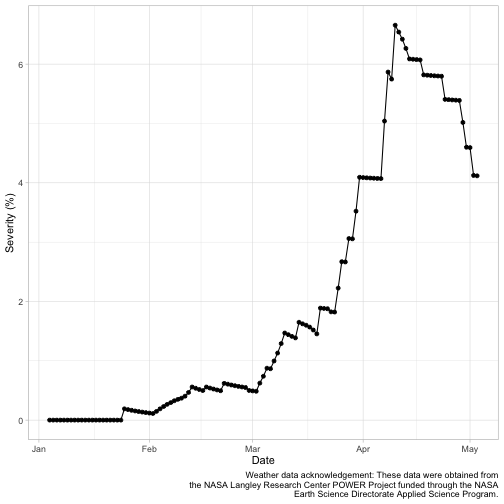
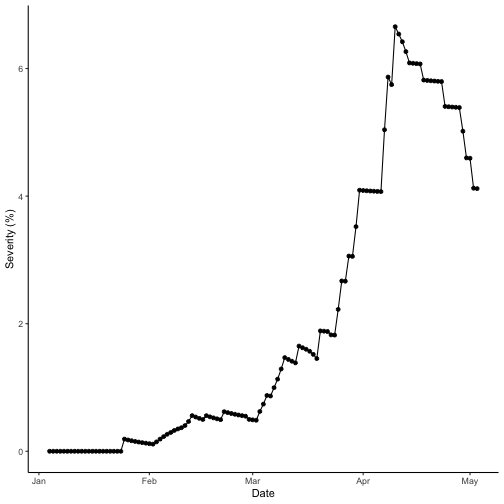
Update README with corrected SEIR() and use theme_classic() for figs

diff --git a/README.md b/README.md
@@ -1,3 +1,6 @@
+
+<!-- README.md is generated from README.Rmd. Please edit that file -->
+
 # *epicrop*: Simulation Modelling of Crop Diseases Using a Susceptible-Exposed-Infectious-Removed (SEIR) Model
 
 <img align="right" src="man/figures/logo.png">
@@ -6,18 +9,32 @@
 
 [![tic](https://github.com/adamhsparks/epicrop/workflows/tic/badge.svg?branch=main)](https://github.com/adamhsparks/epicrop/actions)
 [![codecov](https://codecov.io/gh/adamhsparks/epicrop/branch/main/graph/badge.svg?token=NWrKsX9MaP)](https://codecov.io/gh/adamhsparks/epicrop)
-[![Project Status: Active – The project has reached a stable, usable state and is being actively developed.](https://www.repostatus.org/badges/latest/active.svg)](https://www.repostatus.org/#active)
+[![Project Status: Active – The project has reached a stable, usable
+state and is being actively
+developed.](https://www.repostatus.org/badges/latest/active.svg)](https://www.repostatus.org/#active)
 <!-- badges: end -->
 
-A fork of [_cropsim_](https://r-forge.r-project.org/R/?group_id=335) designed to make using the EPIRICE model (Savary _et al._ 2012) for rice diseases easier to use.
-This version provides easy to use functions to fetch weather data from NASA POWER, via the [*nasapower*](https://cran.r-project.org/package=nasapower) package (Sparks 2018, Sparks 2020) and predict disease severity of five rice diseases using a generic SEIR model (Zadoks 1971) function, `SEIR()`.
+A fork of [*cropsim*](https://r-forge.r-project.org/R/?group_id=335)
+designed to make using the EPIRICE model (Savary *et al.* 2012) for rice
+diseases easier to use. This version provides easy to use functions to
+fetch weather data from NASA POWER, via the
+[*nasapower*](https://cran.r-project.org/package=nasapower) package
+(Sparks 2018, Sparks 2020) and predict disease severity of five rice
+diseases using a generic SEIR model (Zadoks 1971) function, `SEIR()`.
 
-The original EPIRICE manuscript, Savary _et al._ (2012), which details the model and results of its use to model global epidemics of rice diseases, was published in *Crop Protection* detailing global unmanaged disease risk of bacterial blight, brown spot, leaf blast, sheath blight and tungro, which are included in this package.
+The original EPIRICE manuscript, Savary *et al.* (2012), which details
+the model and results of its use to model global epidemics of rice
+diseases, was published in *Crop Protection* detailing global unmanaged
+disease risk of bacterial blight, brown spot, leaf blast, sheath blight
+and tungro, which are included in this package.
 
 # Quick start
 
-You can easily simulate any of the five diseases for rice grown anywhere in the world for years from 1983 to near current using `get_wth()` to fetch data from the [NASA POWER web API](https://power.larc.nasa.gov).
-Alternatively, you can supply your own weather data for any time period as long as it fits the model’s requirements.
+You can easily simulate any of the five diseases for rice grown anywhere
+in the world for years from 1983 to near current using `get_wth()` to
+fetch data from the [NASA POWER web API](https://power.larc.nasa.gov).
+Alternatively, you can supply your own weather data for any time period
+as long as it fits the model’s requirements.
 
 *epicrop* is not yet on CRAN. You can install it this way.
 
@@ -30,8 +47,11 @@ remotes::install_github("adamhsparks/epicrop"
 
 ## Get weather data
 
-First you need to provide weather data for the model. *epicrop* provides the `get_wth()` function to do this. Using it you can fetch weather data for any place in the world from 1983 to near present by providing the
-longitude and latitude and dates or length of rice growing season as shown below.
+First you need to provide weather data for the model. *epicrop* provides
+the `get_wth()` function to do this. Using it you can fetch weather data
+for any place in the world from 1983 to near present by providing the
+longitude and latitude and dates or length of rice growing season as
+shown below.
 
 ``` r
 library("epicrop")
@@ -45,20 +65,19 @@ library("epicrop")
  )
 
 wth
+#>        YYYYMMDD DOY  TEMP  RHUM  RAIN   LAT   LON
+#>   1: 2000-07-01 183 25.34 91.07 24.87 14.68 121.3
+#>   2: 2000-07-02 184 25.99 85.71 17.63 14.68 121.3
+#>   3: 2000-07-03 185 25.35 94.01 33.52 14.68 121.3
+#>   4: 2000-07-04 186 25.58 93.28 16.21 14.68 121.3
+#>   5: 2000-07-05 187 25.79 92.62 36.28 14.68 121.3
+#>  ---                                             
+#> 117: 2000-10-25 299 25.56 89.57 11.04 14.68 121.3
+#> 118: 2000-10-26 300 25.31 94.35 10.51 14.68 121.3
+#> 119: 2000-10-27 301 25.58 90.85  9.13 14.68 121.3
+#> 120: 2000-10-28 302 25.25 92.52 77.16 14.68 121.3
+#> 121: 2000-10-29 303 24.78 94.41 29.22 14.68 121.3
 ```
-
-    ##        YYYYMMDD DOY  TEMP  RHUM  RAIN   LAT   LON
-    ##   1: 2000-07-01 183 25.34 91.07 24.87 14.68 121.3
-    ##   2: 2000-07-02 184 25.99 85.71 17.63 14.68 121.3
-    ##   3: 2000-07-03 185 25.35 94.01 33.52 14.68 121.3
-    ##   4: 2000-07-04 186 25.58 93.28 16.21 14.68 121.3
-    ##   5: 2000-07-05 187 25.79 92.62 36.28 14.68 121.3
-    ##  ---                                             
-    ## 117: 2000-10-25 299 25.56 89.57 11.04 14.68 121.3
-    ## 118: 2000-10-26 300 25.31 94.35 10.51 14.68 121.3
-    ## 119: 2000-10-27 301 25.58 90.85  9.13 14.68 121.3
-    ## 120: 2000-10-28 302 25.25 92.52 77.16 14.68 121.3
-    ## 121: 2000-10-29 303 24.78 94.41 29.22 14.68 121.3
 
 ## Modelling bacterial blight disease severity
 
@@ -70,32 +89,31 @@ transplanted rice.
 bb <- predict_bacterial_blight(wth, emergence = "2000-07-01")
 
 bb
+#>      simday      dates  sites latent infectious removed senesced rateinf
+#>   1:      0 2000-06-30  100.0   0.00        0.0     0.0    0.000   0.000
+#>   2:      1 2000-07-01  108.7   0.00        0.0     0.0    1.000   0.000
+#>   3:      2 2000-07-02  118.1   0.00        0.0     0.0    2.087   0.000
+#>   4:      3 2000-07-03  128.3   0.00        0.0     0.0    3.268   0.000
+#>   5:      4 2000-07-04  139.3   0.00        0.0     0.0    4.551   0.000
+#>  ---                                                                    
+#> 117:    116 2000-10-24 1308.2  44.37      916.6   362.0 2210.703  17.981
+#> 118:    117 2000-10-25 1256.5  39.99      895.1   405.9 2267.662  15.735
+#> 119:    118 2000-10-26 1211.4  33.72      876.6   446.4 2320.710  13.933
+#> 120:    119 2000-10-27 1165.7  47.65      833.0   490.0 2376.432  11.931
+#> 121:    120 2000-10-28 1120.0  59.58      786.7   536.2 2434.321   9.753
+#>      rtransfer rgrowth rsenesced diseased severity   lat   lon
+#>   1:      0.00   9.688     1.000        0     0.00 14.68 121.3
+#>   2:      0.00  10.500     1.087        0     0.00 14.68 121.3
+#>   3:      0.00  11.374     1.181        0     0.00 14.68 121.3
+#>   4:      0.00  12.315     1.283        0     0.00 14.68 121.3
+#>   5:      0.00  13.326     1.393        0     0.00 14.68 121.3
+#>  ---                                                          
+#> 117:     22.36  23.254    56.959     1323    42.35 14.68 121.3
+#> 118:     22.00  23.659    53.049     1341    42.67 14.68 121.3
+#> 119:      0.00  23.922    55.722     1357    42.90 14.68 121.3
+#> 120:      0.00  24.177    57.889     1371    43.04 14.68 121.3
+#> 121:      0.00  24.410    57.906     1383    43.04 14.68 121.3
 ```
-
-    ##      simday      dates  sites latent infectious removed senesced rateinf
-    ##   1:      0 2000-06-30  100.0   0.00        0.0     0.0    0.000    0.00
-    ##   2:      1 2000-07-01  108.7   0.00        0.0     0.0    1.000    0.00
-    ##   3:      2 2000-07-02  118.1   0.00        0.0     0.0    2.087    0.00
-    ##   4:      3 2000-07-03  128.3   0.00        0.0     0.0    3.268    0.00
-    ##   5:      4 2000-07-04  139.3   0.00        0.0     0.0    4.551    0.00
-    ##  ---                                                                    
-    ## 117:    116 2000-10-24 1448.6  27.12      897.7   307.6 2185.382   24.56
-    ## 118:    117 2000-10-25 1390.2  24.56      882.0   350.4 2242.712   21.54
-    ## 119:    118 2000-10-26 1339.1  46.10      842.4   390.0 2296.228   18.52
-    ## 120:    119 2000-10-27 1294.8  64.62      805.6   426.8 2346.414   16.11
-    ## 121:    120 2000-10-28 1248.7  80.73      763.9   468.5 2401.046   13.32
-    ##      rtransfer rgrowth rsenesced diseased severity   lat   lon
-    ##   1:      0.00   9.688     1.000        0     0.00 14.68 121.3
-    ##   2:      0.00  10.500     1.087        0     0.00 14.68 121.3
-    ##   3:      0.00  11.374     1.181        0     0.00 14.68 121.3
-    ##   4:      0.00  12.315     1.283        0     0.00 14.68 121.3
-    ##   5:      0.00  13.326     1.393        0     0.00 14.68 121.3
-    ##  ---                                                          
-    ## 117:     27.12  23.495    57.330     1232    38.97 14.68 121.3
-    ## 118:      0.00  24.018    53.516     1257    39.47 14.68 121.3
-    ## 119:      0.00  24.371    50.186     1279    39.88 14.68 121.3
-    ## 120:      0.00  24.609    54.632     1297    40.19 14.68 121.3
-    ## 121:      0.00  24.903    56.775     1313    40.35 14.68 121.3
 
 Once you have the results you can visualise them.
 
@@ -109,30 +127,50 @@ ggplot(data = bb,
        x = "Date") +
   geom_line() +
   geom_point() +
-  labs(title = "Bacterial blight disease progress over time",
-       subtitle = "Results for wet season year 2000 at IRRI Zeigler Experiment
-       Station shown",
-       caption = "Weather data acknowledgement:\nThese data were obtained from
-       the NASA Langley Research Center POWER Project\nfunded through the NASA
-       Earth Science Directorate Applied Science Program.") +
-  theme_light()
+  labs(caption = "Weather data acknowledgement:\nThese data were obtained from the NASA Langley Research Center POWER Project\nfunded through the NASA Earth Science Directorate Applied Science Program.") +
+  theme_classic()
 ```
 
-![](man/figures/fig1-1.png)<!-- -->
+<div class="figure">
+
+<img src="man/figures/README-plot-1.png" alt="Bacterial blight disease progress over time. Results for wet season year 2000 at IRRI Zeigler Experiment Station shown" width="100%" />
+<p class="caption">
+Bacterial blight disease progress over time. Results for wet season year
+2000 at IRRI Zeigler Experiment Station shown
+</p>
+
+</div>
 
 # Meta
 
-Please note that this project is released with a [Contributor Code of Conduct](CONDUCT.md).
-By participating in this project you agree to abide by its terms.
+Please note that this project is released with a [Contributor Code of
+Conduct](CONDUCT.md). By participating in this project you agree to
+abide by its terms.
 
 # References
 
-Serge Savary, Andrew Nelson, Laetitia Willocquet, Ireneo Pangga and Jorrel Aunario. Modeling and mapping potential epidemics of rice diseases globally. *Crop Protection*, Volume 34, 2012, Pages 6-17, ISSN 0261-2194 DOI: [10.1016/j.cropro.2011.11.009](https://doi.org/10.1016/j.cropro.2011.11.009).
+Serge Savary, Andrew Nelson, Laetitia Willocquet, Ireneo Pangga and
+Jorrel Aunario. Modeling and mapping potential epidemics of rice
+diseases globally. *Crop Protection*, Volume 34, 2012, Pages 6-17, ISSN
+0261-2194 DOI:
+[10.1016/j.cropro.2011.11.009](https://doi.org/10.1016/j.cropro.2011.11.009).
 
-Serge Savary, Stacia Stetkiewicz, François Brun, and Laetitia Willocquet. Modelling and Mapping Potential Epidemics of Wheat Diseases-Examples on Leaf Rust and Septoria Tritici Blotch Using EPIWHEAT. *European Journal of Plant Pathology* 142, no. 4 (August 1, 2015): 771–90. DOI: [10.1007/s10658-015-0650-7](https://doi.org/10.1007/s10658-015-0650-7).
+Serge Savary, Stacia Stetkiewicz, François Brun, and Laetitia
+Willocquet. Modelling and Mapping Potential Epidemics of Wheat
+Diseases-Examples on Leaf Rust and Septoria Tritici Blotch Using
+EPIWHEAT. *European Journal of Plant Pathology* 142, no. 4 (August 1,
+2015): 771–90. DOI:
+[10.1007/s10658-015-0650-7](https://doi.org/10.1007/s10658-015-0650-7).
 
-Jan C. Zadoks. Systems Analysis and the Dynamics of Epidemics. Laboratory of Phytopathology, Agricultural University, Wageningen, The Netherlands; *Phytopathology* 61:600. DOI: [10.1094/Phyto-61-600](https://doi.org/10.1094/Phyto-61-600).
+Jan C. Zadoks. Systems Analysis and the Dynamics of Epidemics.
+Laboratory of Phytopathology, Agricultural University, Wageningen, The
+Netherlands; *Phytopathology* 61:600. DOI:
+[10.1094/Phyto-61-600](https://doi.org/10.1094/Phyto-61-600).
 
-Adam Sparks (2018). nasapower: A NASA POWER Global Meteorology, Surface Solar Energy and Climatology Data Client for R. Journal of Open Source Software, 3(30), 1035, [10.21105/joss.01035](https://doi.org/10.21105/joss.01035).
+Adam Sparks (2018). nasapower: A NASA POWER Global Meteorology, Surface
+Solar Energy and Climatology Data Client for R. Journal of Open Source
+Software, 3(30), 1035,
+[10.21105/joss.01035](https://doi.org/10.21105/joss.01035).
 
-Adam Sparks (2020). *nasapower: NASA-POWER Data from R*. R package version 3.0.1, URL: <https://CRAN.R-project.org/package=nasapower>.
+Adam Sparks (2020). *nasapower: NASA-POWER Data from R*. R package
+version 3.0.1, URL: <https://CRAN.R-project.org/package=nasapower>.
